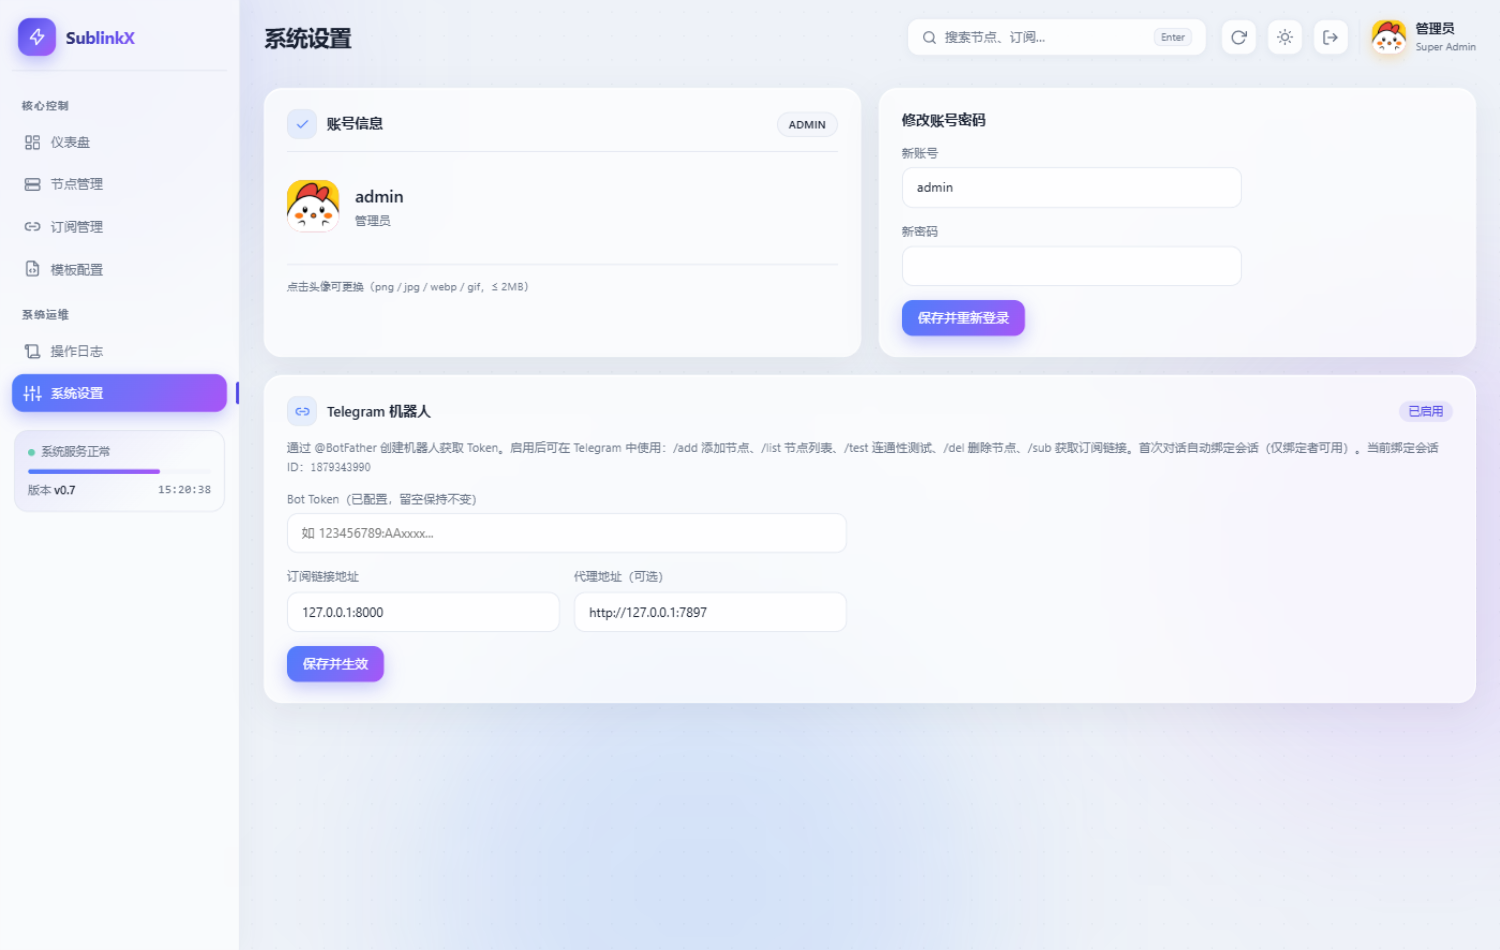
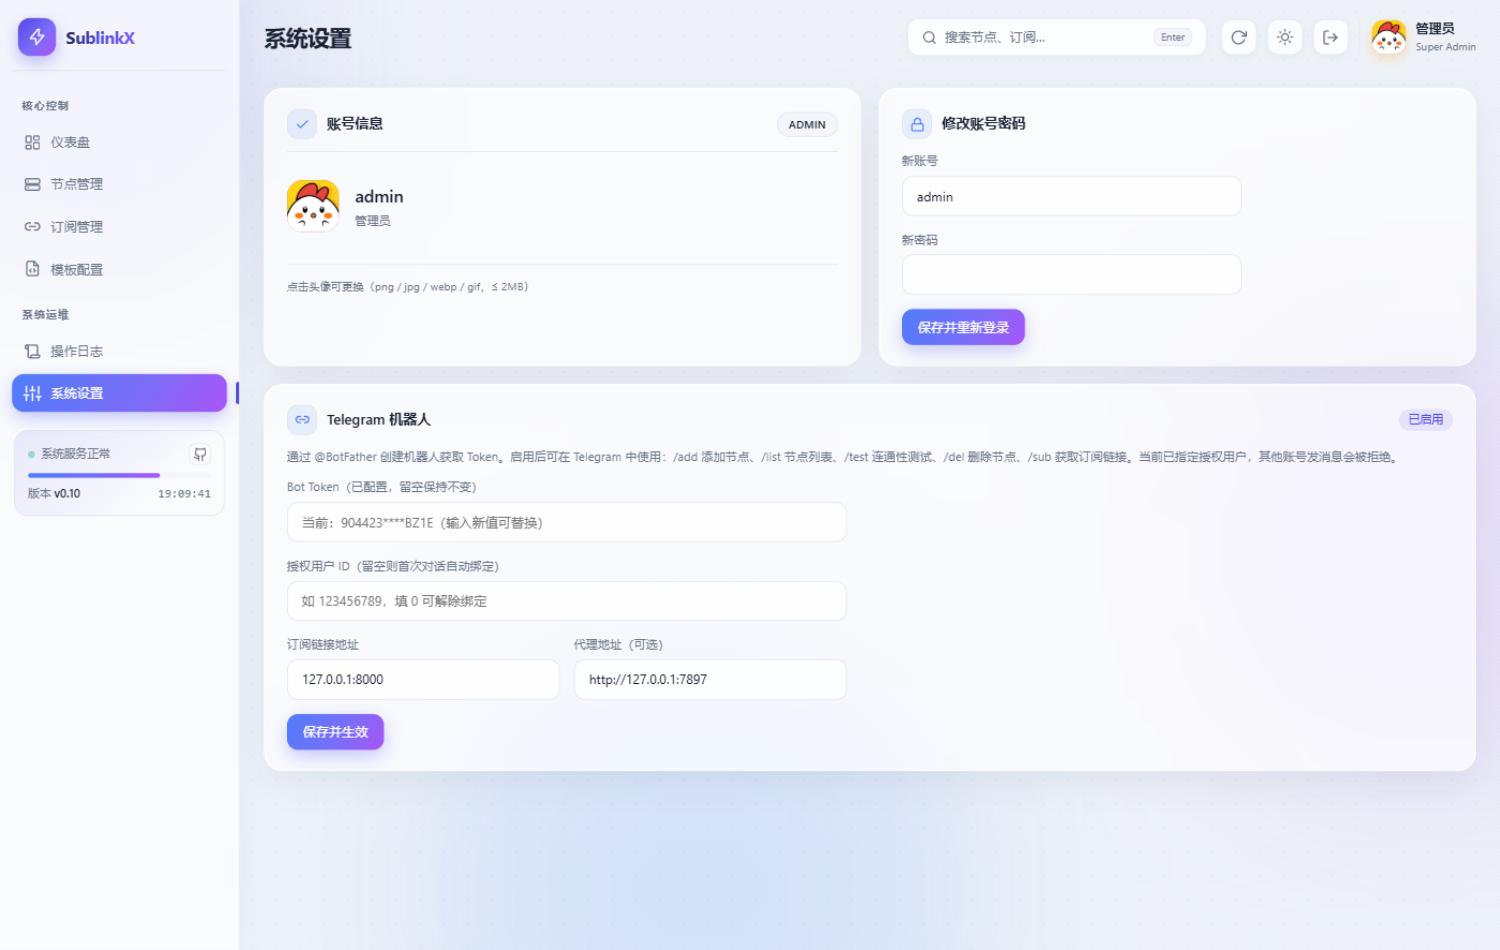
feat: user-id whitelist for telegram bot, drop Surge support

diff --git a/static/js/app.js b/static/js/app.js
@@ -29,7 +29,9 @@ var ICONS = {
   globe: '<circle cx="12" cy="12" r="10"/><line x1="2" y1="12" x2="22" y2="12"/><path d="M12 2a15.3 15.3 0 0 1 4 10 15.3 15.3 0 0 1-4 10 15.3 15.3 0 0 1-4-10 15.3 15.3 0 0 1 4-10z"/>',
   pie: '<path d="M21.21 15.89A10 10 0 1 1 8 2.83"/><path d="M22 12A10 10 0 0 0 12 2v10z"/>',
   zap2: '<polygon points="13 2 3 14 10 14 11 22 21 10 14 10 15 2"/>',
-  clock: '<circle cx="12" cy="12" r="10"/><polyline points="12 6 12 12 16 14"/>'
+  clock: '<circle cx="12" cy="12" r="10"/><polyline points="12 6 12 12 16 14"/>',
+  lock: '<rect x="3" y="11" width="18" height="11" rx="2"/><path d="M7 11V7a5 5 0 0 1 10 0v4"/>',
+  user: '<path d="M20 21v-2a4 4 0 0 0-4-4H8a4 4 0 0 0-4 4v2"/><circle cx="12" cy="7" r="4"/>'
 };
 function icon(name, size) {
   size = size || 17;
@@ -741,7 +743,6 @@ async function renderSubs() {
       '<td><span class="mono truncate" title="' + esc(subLink(s.Name)) + '">/c/?token=' + md5(s.Name) + '</span>' +
       '<button class="mini-btn" data-act="copy" title="复制通用链接（v2ray 格式）">通用</button>' +
       '<button class="mini-btn" data-act="copy-clash" title="复制 Clash 完整配置链接">Clash</button>' +
-      '<button class="mini-btn" data-act="copy-surge" title="复制 Surge 完整配置链接">Surge</button>' +
       '<button class="mini-btn" data-act="open" title="打开 Clash 配置查看">打开</button></td>' +
       '<td class="ops"><button class="iconbtn sm" data-act="edit" aria-label="编辑">' + icon('edit', 14) +
       '</button><button class="iconbtn sm danger" data-act="del" aria-label="删除">' + icon('trash', 14) + '</button></td></tr>';
@@ -764,7 +765,6 @@ async function renderSubs() {
     switch (btn.dataset.act) {
       case 'copy': copyText(subLink(sub.Name)); break;
       case 'copy-clash': copyText(subLink(sub.Name) + '&client=clash'); break;
-      case 'copy-surge': copyText(subLink(sub.Name) + '&client=surge'); break;
       case 'open': window.open('/c/?token=' + md5(sub.Name) + '&client=clash', '_blank'); break;
       case 'edit': openSubDlg(sub); break;
       case 'del':
@@ -780,14 +780,11 @@ async function renderSubs() {
   if (state.pendingDialog === 'add-sub') { state.pendingDialog = null; openSubDlg(null); }
 }
 
-function subDlgBody(name, clash, surge, udp, cert) {
+function subDlgBody(name, clash, udp, cert) {
   return '<label class="field"><span>订阅名称 *</span><input id="f-subname" class="input" value="' + esc(name || '') + '" placeholder="订阅名"/>' +
     '</label>' +
     '<p class="pick-hint">订阅自动包含全部节点（当前 <b>' + state.nodes.length + '</b> 个），后续新增/删除节点无需修改订阅。</p>' +
-    '<div class="config-grid">' +
     '<label class="field"><span>Clash 模板</span><input id="f-clash" class="input" value="' + esc(clash || 'clash.yaml') + '"/></label>' +
-    '<label class="field"><span>Surge 模板</span><input id="f-surge" class="input" value="' + esc(surge || 'surge.conf') + '"/></label>' +
-    '</div>' +
     '<div style="display:flex; gap:20px; margin-top:4px">' +
     '<label style="display:flex;align-items:center;gap:8px;font-size:12.5px;cursor:pointer"><input type="checkbox" id="f-udp"' + (udp ? ' checked' : '') + '/>允许 UDP</label>' +
     '<label style="display:flex;align-items:center;gap:8px;font-size:12.5px;cursor:pointer"><input type="checkbox" id="f-cert"' + (cert ? ' checked' : '') + '/>跳过证书验证</label>' +
@@ -808,14 +805,13 @@ async function openSubDlg(sub) {
   if (isEdit) { try { cfg = JSON.parse(sub.Config || '{}'); } catch (e) {} }
 
   dlgOpen(isEdit ? '编辑订阅' : '新建订阅',
-    subDlgBody(sub ? sub.Name : '', cfg.clash, cfg.surge, cfg.udp, cfg.cert),
+    subDlgBody(sub ? sub.Name : '', cfg.clash, cfg.udp, cfg.cert),
     isEdit ? '保存' : '创建', async function () {
       var name = $('#f-subname').value.trim();
       if (!name) throw new Error('订阅名称不能为空');
       if (!state.nodes.length) throw new Error('暂无节点，请先到节点管理添加节点');
       var config = JSON.stringify({
         clash: $('#f-clash').value.trim() || 'clash.yaml',
-        surge: $('#f-surge').value.trim() || 'surge.conf',
         udp: $('#f-udp').checked,
         cert: $('#f-cert').checked
       });
@@ -1430,7 +1426,8 @@ async function renderSettings() {
     '<p style="font-size:12px;color:var(--muted);margin-top:2px">' + esc(me.nickname || '') + '</p></div></div>' +
     '<div class="tile-foot"><span>点击头像可更换（png / jpg / webp / gif，≤ 2MB）</span></div>' +
     '</section>' +
-    '<section class="tile" style="grid-column:span 6"><header class="tile-head"><h3>修改账号密码</h3></header>' +
+    '<section class="tile" style="grid-column:span 6"><header class="tile-head">' +
+    '<span class="head-ic blue">' + icon('lock', 15) + '</span><h3>修改账号密码</h3></header>' +
     '<form id="pwd-form" style="max-width:340px">' +
     '<label class="field"><span>新账号</span><input id="f-user" class="input" value="' + esc(me.username || '') + '" required/></label>' +
     '<label class="field" style="margin-top:14px"><span>新密码</span><input id="f-pass" class="input" type="password" required/></label>' +
@@ -1440,15 +1437,18 @@ async function renderSettings() {
     '<section class="tile" style="grid-column:1/-1"><header class="tile-head">' +
     '<span class="head-ic blue">' + icon('link', 14) + '</span><h3>Telegram 机器人</h3>' +
     '<span class="chip ' + (tgConfigured ? '' : 'neutral') + '" style="margin-left:auto">' +
-      (tgConfigured ? (tgInfo.botId ? '已启用 · Bot ' + esc(tgInfo.botId) : '已启用') : '未配置') + '</span>' +
+      (tgConfigured ? '已启用' : '未配置') + '</span>' +
     '</header>' +
     '<p style="font-size:12px;color:var(--muted);margin-bottom:12px">通过 @BotFather 创建机器人获取 Token。启用后可在 Telegram 中使用：/add 添加节点、/list 节点列表、/test 连通性测试、/del 删除节点、/sub 获取订阅链接。' +
-    (tgConfigured ? (tgInfo.chatBound ? '已绑定会话，仅该会话可操作。' : '尚未绑定会话，首次对话的账号将自动绑定。') : '') +
+    (tgConfigured ? (tgInfo.chatBound ? '当前已指定授权用户，其他账号发消息会被拒绝。' : '未指定授权用户，首次对话的账号将自动绑定。') : '') +
     '</p>' +
     '<form id="tg-form" style="max-width:560px">' +
     '<label class="field"><span>Bot Token' + (tgConfigured ? '（已配置，留空保持不变）' : ' *') + '</span><input id="f-tg-token" class="input mono" autocomplete="off" placeholder="' +
       (tgConfigured && tgInfo.tokenMasked ? '当前：' + esc(tgInfo.tokenMasked) + '（输入新值可替换）' : '如 123456789:AAxxxx...') +
       '" value=""/></label>' +
+    '<label class="field" style="margin-top:14px"><span>授权用户 ID（留空则首次对话自动绑定）</span>' +
+    '<input id="f-tg-chatid" class="input mono" autocomplete="off" placeholder="如 123456789，填 0 可解除绑定" value="' +
+    esc(tgConfigured && tgInfo.chatId ? String(tgInfo.chatId) : '') + '"/></label>' +
     '<div class="config-grid" style="margin-top:14px">' +
     '<label class="field"><span>订阅链接地址</span><input id="f-tg-host" class="input" placeholder="可含协议前缀，如 https://sub.example.com:2022" value="' + esc(tgConfigured && tgInfo.serverHost ? tgInfo.serverHost : location.host) + '"/></label>' +
     '<label class="field"><span>代理地址（可选）</span><input id="f-tg-proxy" class="input" placeholder="直连留空；如 http://127.0.0.1:7897" value="' + esc(tgConfigured && tgInfo.proxy ? tgInfo.proxy : '') + '"/></label>' +
@@ -1506,7 +1506,8 @@ async function renderSettings() {
         form: {
           token: $('#f-tg-token').value.trim(),
           serverHost: $('#f-tg-host').value.trim(),
-          proxy: $('#f-tg-proxy').value.trim()
+          proxy: $('#f-tg-proxy').value.trim(),
+          chatId: $('#f-tg-chatid').value.trim()
         }
       });
       toast('Telegram Bot 已保存并生效，去 Telegram 给机器人发 /start 试试', true);

diff --git a/static/index.html b/static/index.html
@@ -69,7 +69,7 @@
         </a>
       </div>
       <div class="side-status-bar"><span></span></div>
-      <div class="side-status-row"><span>版本 <b>v<span id="side-ver">0.9</span></b></span><span id="side-clock" class="mono">--:--:--</span></div>
+      <div class="side-status-row"><span>版本 <b>v<span id="side-ver">0.10</span></b></span><span id="side-clock" class="mono">--:--:--</span></div>
     </div>
   </aside>
 
@@ -97,6 +97,6 @@
 
 <dialog id="dlg" class="dlg"></dialog>
 <div id="toast" class="toast" hidden></div>
-<script src="/static/js/app.js?v=20261110b"></script>
+<script src="/static/js/app.js?v=20261110d"></script>
 </body>
 </html>

diff --git a/api/telegram.go b/api/telegram.go
@@ -1,6 +1,7 @@
 package api
 
 import (
+	"strconv"
 	"strings"
 
 	"sublink/models"
@@ -14,6 +15,7 @@ func TGSet(c *gin.Context) {
 	token := c.PostForm("token")
 	serverHost := c.PostForm("serverHost")
 	proxy := strings.TrimSpace(c.PostForm("proxy"))
+	chatIDStr := strings.TrimSpace(c.PostForm("chatId"))
 	cfg0 := models.ReadConfig()
 	if token == "" && cfg0.TelegramBotToken == "" {
 		c.JSON(400, gin.H{
@@ -45,6 +47,15 @@ func TGSet(c *gin.Context) {
 	cfg.TelegramBotToken = token
 	cfg.TelegramServerHost = serverHost
 	cfg.TelegramProxy = proxy // 显式覆盖，允许清空
+	// 授权用户 ID：有值则覆盖（0 表示解除绑定、恢复首次自动绑定）
+	if chatIDStr != "" {
+		v, err := strconv.ParseInt(chatIDStr, 10, 64)
+		if err != nil || (v != 0 && (v < 1000 || v > 9999999999999)) {
+			c.JSON(400, gin.H{"code": "00001", "msg": "用户 ID 格式不正确"})
+			return
+		}
+		cfg.TelegramChatID = v
+	}
 	models.WriteConfig(cfg)
 	telegram.Start(token)
 	models.OpLogAdd("面板", "保存 Telegram 配置", "bot: "+maskToken(token)+", 代理: "+proxy)
@@ -72,7 +83,8 @@ func TGInfo(c *gin.Context) {
 		info["botId"] = splitToken(cfg.TelegramBotToken)
 		info["tokenMasked"] = maskToken(cfg.TelegramBotToken)
 		info["serverHost"] = cfg.TelegramServerHost
-		info["chatBound"] = cfg.TelegramChatID != 0 // 仅告知是否已绑定，不暴露会话 ID
+		info["chatBound"] = cfg.TelegramChatID != 0
+		info["chatId"] = cfg.TelegramChatID // 管理员设置项需要可见/可改
 		info["proxy"] = cfg.TelegramProxy
 	}
 	c.JSON(200, gin.H{

diff --git a/node/surge.go b/node/surge.go
@@ -172,10 +172,13 @@ func DecodeSurge(proxys, groups []string, file string) (string, error) {
 			return "", err
 		}
 	} else {
+		if file == "" {
+			return "", fmt.Errorf("Surge 模板未配置")
+		}
 		surge, err = ReadTemplateFile(file)
 		if err != nil {
 			log.Println(err)
-			return "", err
+			return "", fmt.Errorf("Surge 模板不存在：%s", file)
 		}
 	}
 

diff --git a/main.go b/main.go
@@ -77,7 +77,7 @@ func main() {
 	var port = config.Port        // 读取端口号
 	// 获取版本号
 	var Isversion bool
-	version = "0.9"
+	version = "0.10"
 	flag.BoolVar(&Isversion, "version", false, "显示版本号")
 	flag.Parse()
 	if Isversion {
